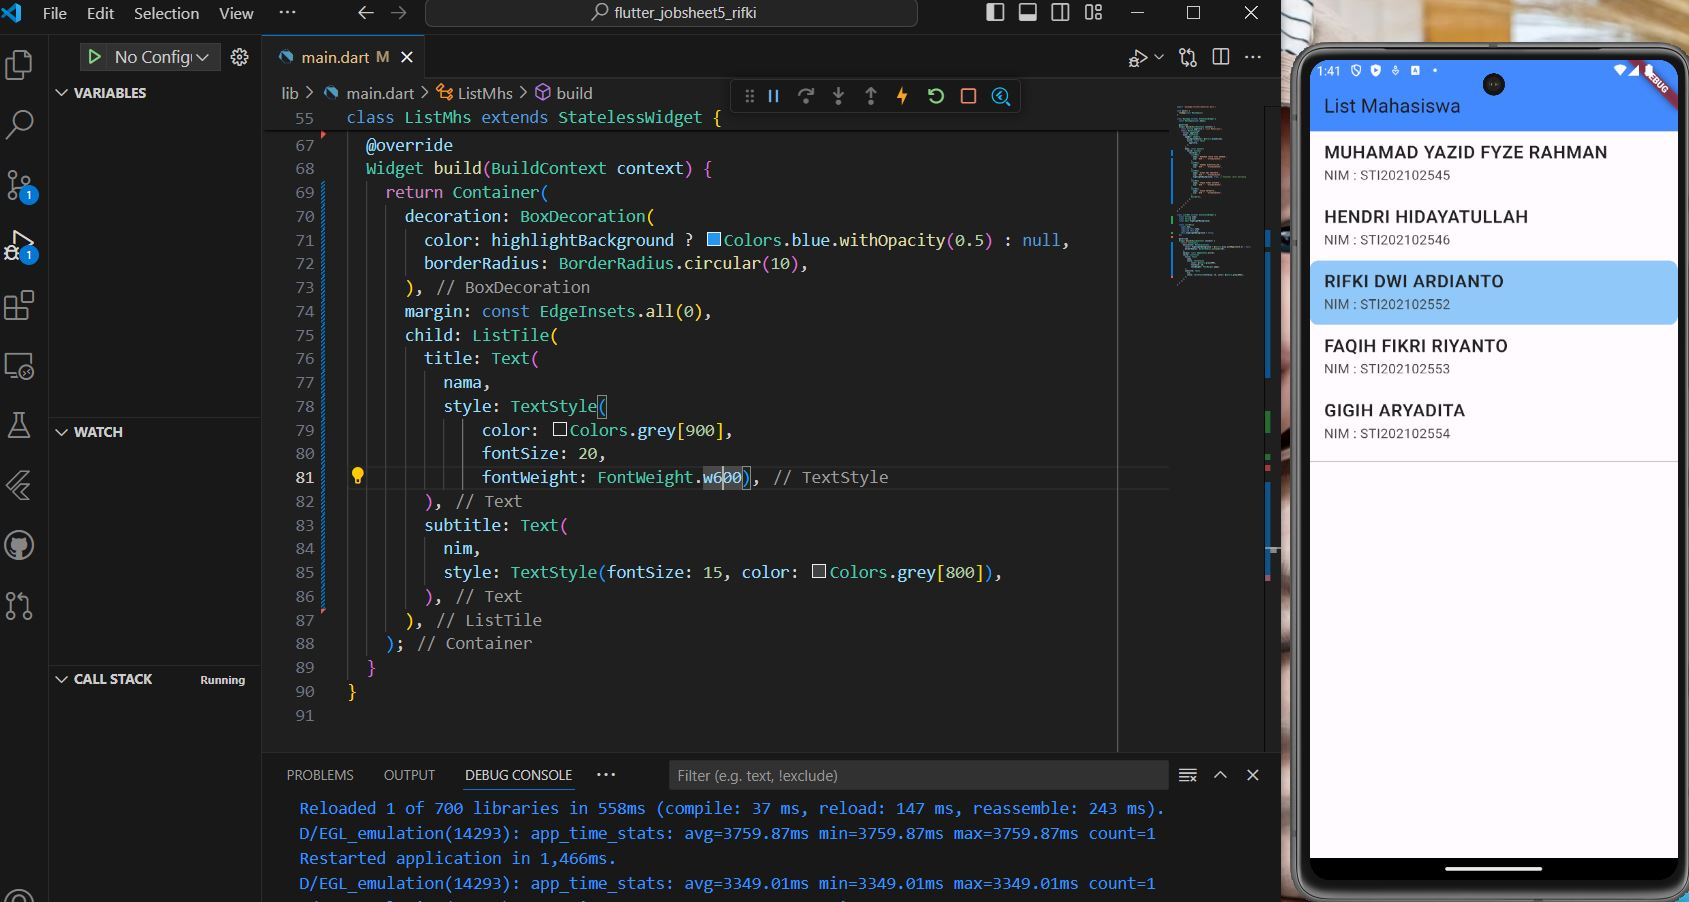
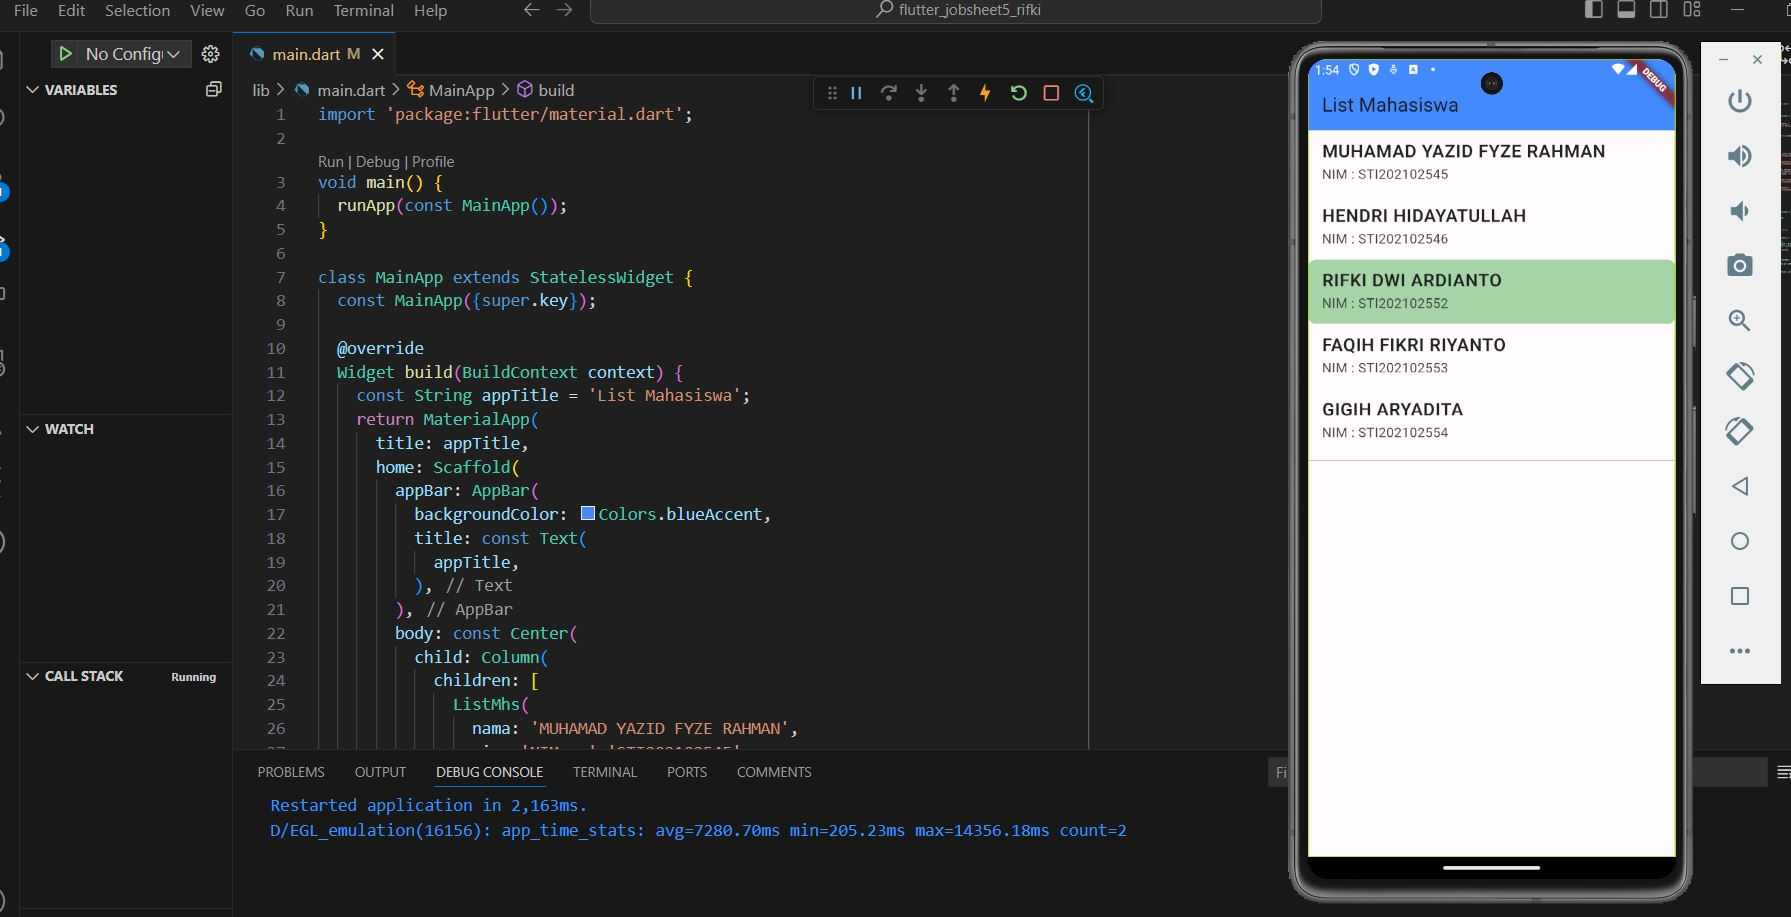
Jobsheet 5

diff --git a/lib/main.dart b/lib/main.dart
@@ -68,7 +68,7 @@ class ListMhs extends StatelessWidget {
   Widget build(BuildContext context) {
     return Container(
       decoration: BoxDecoration(
-        color: highlightBackground ? Colors.blue.withOpacity(0.5) : null,
+        color: highlightBackground ? Colors.green.withOpacity(0.5) : null,
         borderRadius: BorderRadius.circular(10),
       ),
       margin: const EdgeInsets.all(0),
